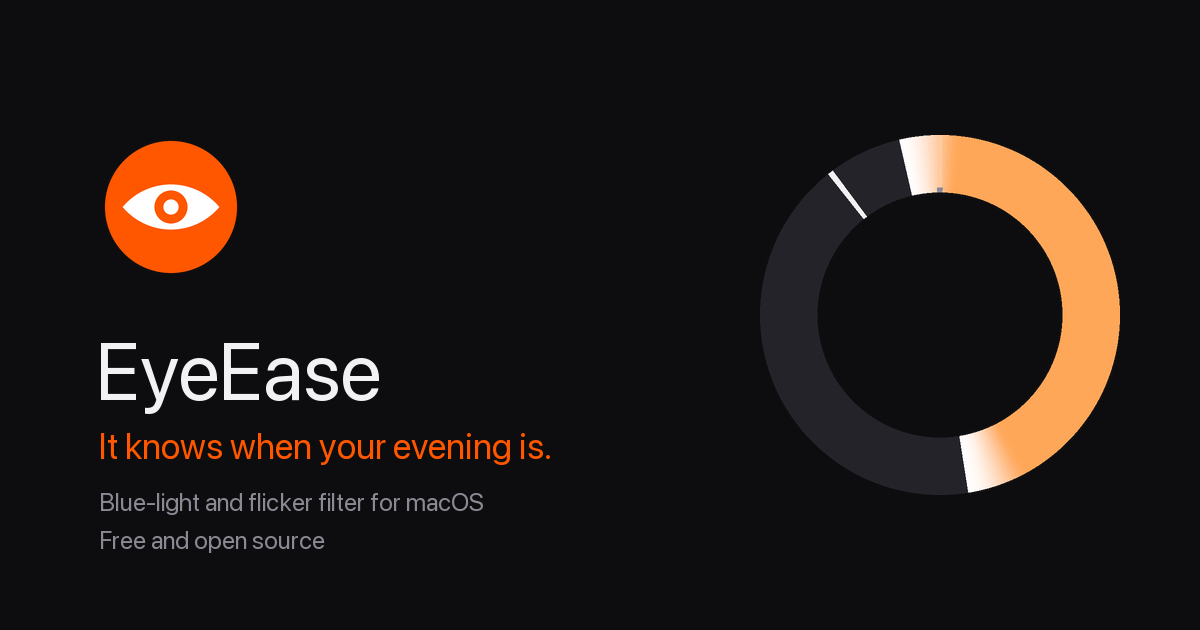
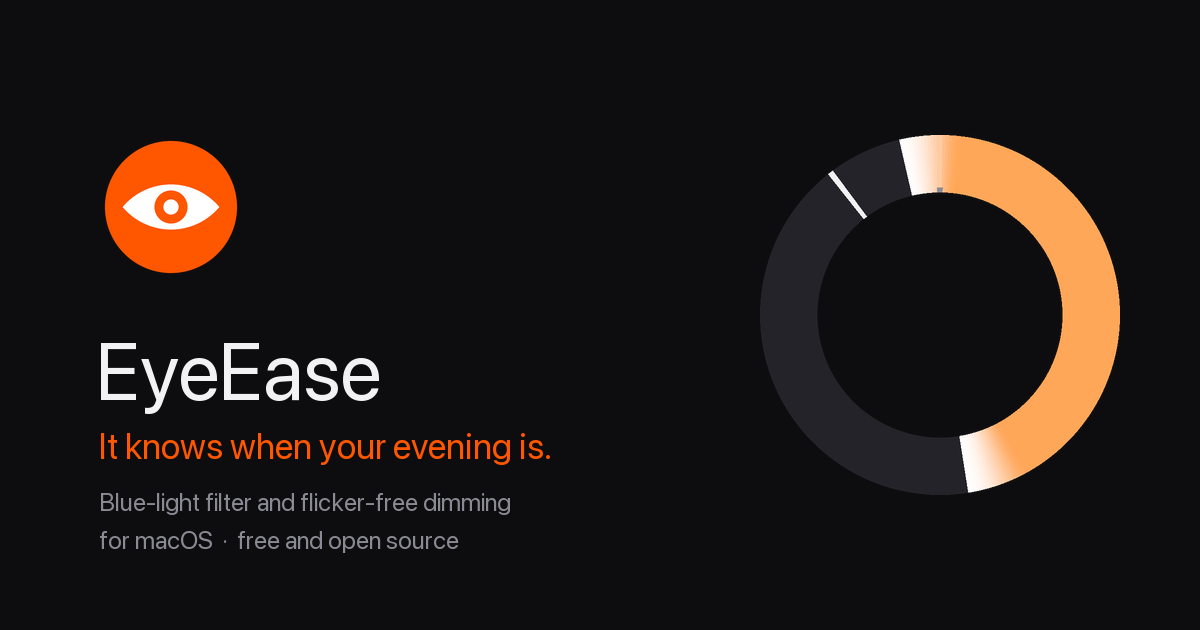
Stop calling it a flicker filter
Software cannot filter flicker — nothing can subtract it from light already
on its way to your eyes. What the app does is avoid producing it: pin the
backlight at full, where the LED never switches off, and move the dimming
into the gamma ramp. That is a real thing and worth saying, but it is a
different claim.

"Filter" also invites somebody with a flickering external monitor to download
this and find it does nothing for them. External displays need DDC/CI, which
isn't implemented, so the feature only ever touches the built-in screen —
now stated in the feature text rather than left for them to discover.

Tagline, meta description, share card and repo description all now read
"blue-light filter and flicker-free dimming".

Same reasoning as removing the Tap Zap framing: a claim the product can't
fully back costs more than the words are worth.

Changed region(s): [[0.0925, 0.8444, 0.4008, 0.8746], [0.1542, 0.7841, 0.4317, 0.8143]]

diff --git a/website/index.html b/website/index.html
@@ -4,7 +4,7 @@
 <meta charset="utf-8">
 <meta name="viewport" content="width=device-width, initial-scale=1">
 <title>EyeEase — a kinder screen for your Mac</title>
-<meta name="description" content="Free, open-source blue-light and flicker filter for macOS. Follows the sun where you live, holds the backlight steady, and never touches the network.">
+<meta name="description" content="Free, open-source blue-light filter and flicker-free dimming for macOS. Follows the sun where you live, holds the backlight steady, and never touches the network.">
 
 <meta property="og:title" content="EyeEase — a kinder screen for your Mac">
 <meta property="og:description" content="Warms your screen as the light actually goes, wherever you live. Free, open source, and it never touches the network.">
@@ -408,7 +408,7 @@ footer a:hover { color: var(--text); }
 <main>
   <section class="hero wrap">
     <img class="appicon" src="icon-512.png" alt="" width="88" height="88">
-    <p class="kicker">Blue-light &amp; flicker filter for macOS</p>
+    <p class="kicker">Blue-light filter &amp; flicker-free dimming for macOS</p>
     <h1>It knows when<br>your <span class="lens">evening</span> is.</h1>
     <p class="lede">
       EyeEase warms your screen past where Night Shift stops — following the sun
@@ -501,8 +501,9 @@ footer a:hover { color: var(--text); }
       <h3>Zero blue, zero flicker</h3>
       <p>
         One switch. The blue channel is written as literal zeros, not merely
-        turned down, and the backlight is pinned so nothing strobes while the
-        dimming happens in software.
+        turned down, and the built-in display's backlight is pinned at full so
+        it never strobes — the dimming moves into software instead. An external
+        monitor dims itself, so that half only applies to the laptop screen.
       </p>
     </div>
 
